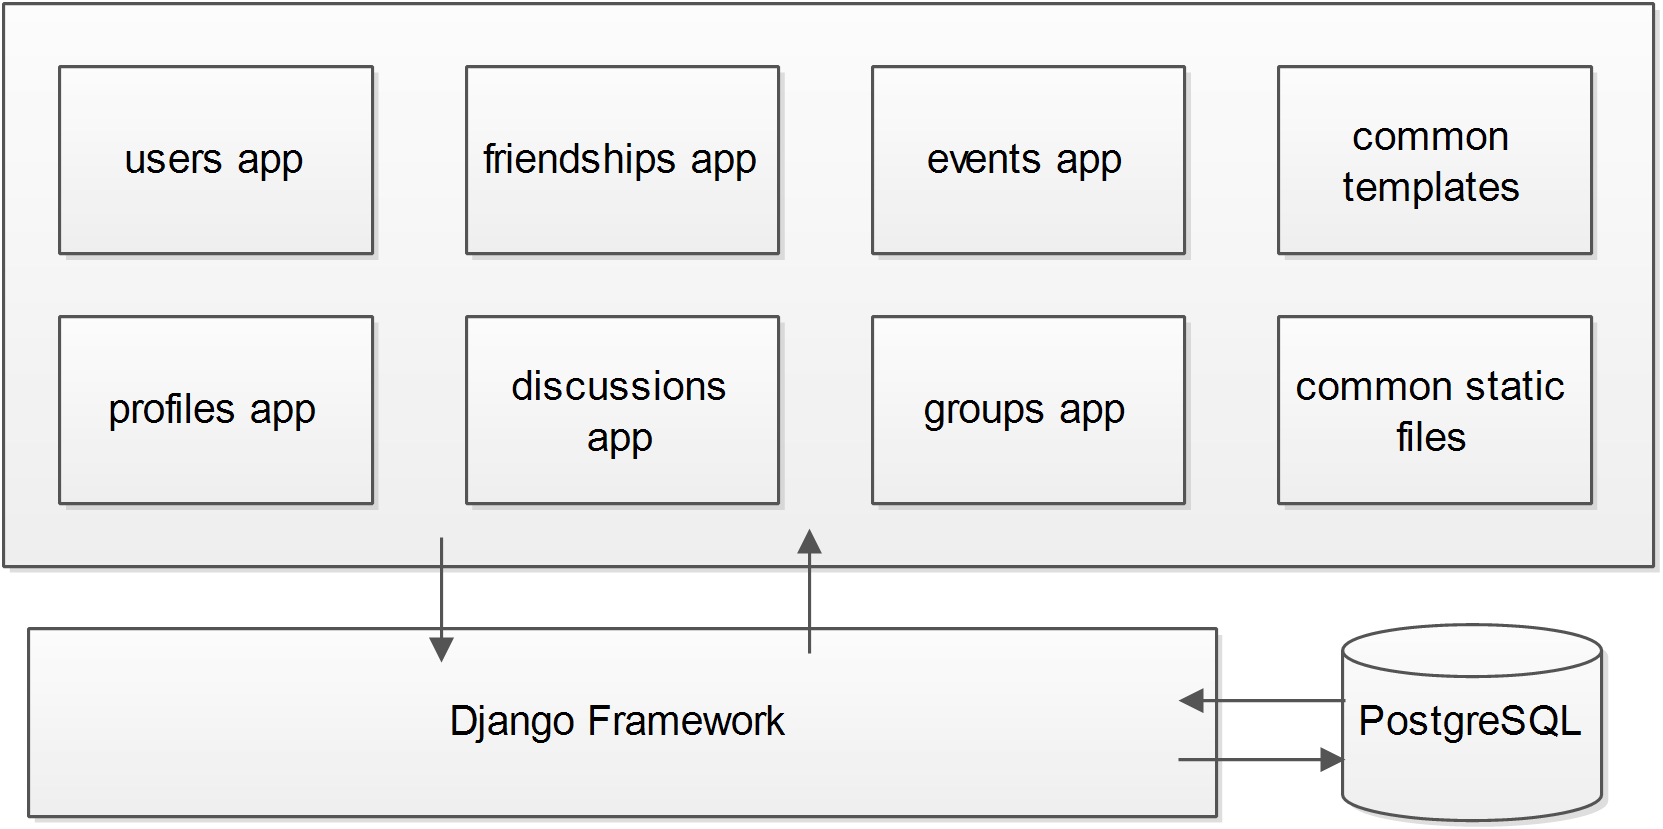
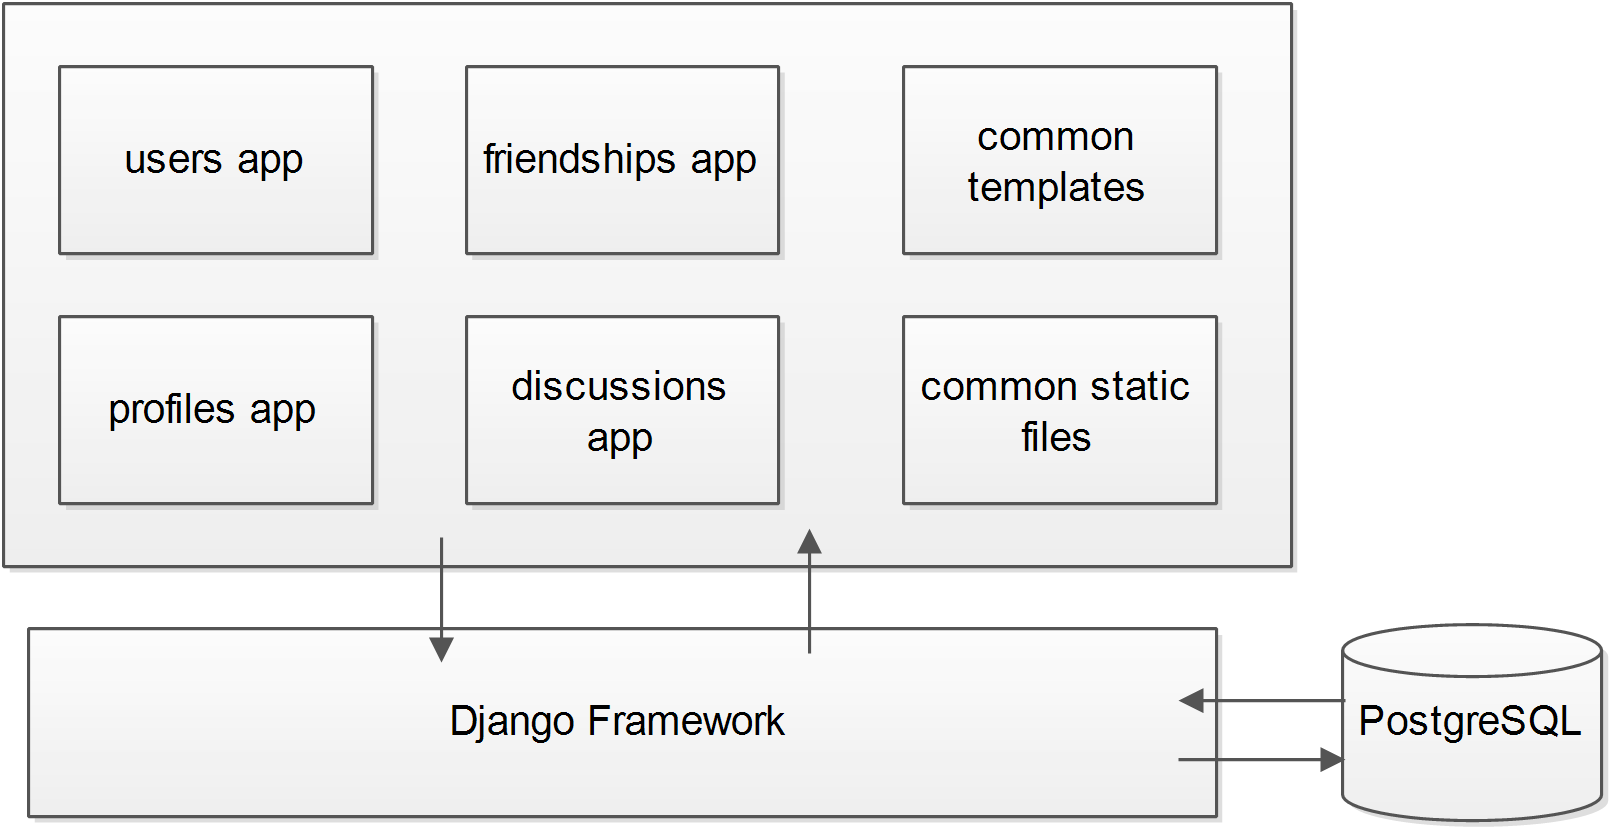
1.Update README.md.

diff --git a/README.md b/README.md
@@ -30,22 +30,45 @@ Start the documentation with identifying information:
 
 ## Must have features
 
-Tasks | Description of must have features | Time of the deadline<br>(DD.MM.YYYY [HH:MM]） 
------------- | ------------- | ------------
-Set up development environment |1. Create virtual environment for the project.<br>2. Deploy demo site to Heroku.<br>3. Use GitLab’s issue board for creating tasks  | 31.10.2018
-Design | 1. Design of users app.<br>2. Design of users’ profile app.<br>3. Design of friendship app.<br>4. Design of discussion app.<br>5. Design of event app.<br>6. Reorganize the tasks on the GitLab’s issue board.  | 3.11.2018 23:59
-implement | 1. Description of the web service data and functionality(Create models including user,users’ profile,friendship,discussions and events.)<br>2. During the web development, we would be aware of project’s progress.<br>3. The gitlab commits should be small and precise.<br>4. often update the deployment on the heroku.<br>5. Update the tasks on on the GitLab’s issue board.  | 28.11.2018 23:59
-test | 1. With the validator, validate the Web app codes.<br>2. Deploy our site with DEBUG = False in Django project’s settings.py to Heroku, and test it.  | 07.12.2018 23:59
+Most of the must have features have been implemented. And some advanced improvements will be taken in the near future.
+
+Must Have Features | Implementation Description | Timetable
+------------------ | -------------------------- | ---------
+ 1.Use a virtual environment | 1.Add virtualenv environment settings in this project.<br>2.Add Pillow in “Pipfile” and “requirement.txt” for supporting Django’s ImageField. | 31.10.2018
+ 2.Get the Web development basics right | 1.CSS and HTML checking is underway.<br>2.Code refactoring and commenting is underway. | 28.11.2018
+ 3.Test also with DEBUG=False in Django project’s settings.py | 1.Deployment on Heroku is working with DEBUG=False. | 21.11.2018
+ 4.User App Functionality | 1.Admin user model is implemented using Django’s Admin functionality.<br>2.Admin user has full CRUD permissions to manipulate all of the website data. <br>3.Normal user model is implemented based on Django’s User model. <br>4.Normal user can join the site, and existing users can delete their accounts. <br>5.Existing user can login and logout site. <br>6.Existing user can enter, modify and delete their mandatory information, including first name, last name, phone number, address. We use first name and last name as users’ real name. And they also can modify their additional information, including age, gender, date of birth, and photo. | 28.11.2018
+ 5.Profile App Functionality | 1.Each user has their own profile page, presenting their basic information, post list, friend list and discussion list. <br>2.The privacy settings include “just me”, “friends”, “public”. User can modify their privacy settings for different data: real name, email, phone, address, friend list. <br>3.User can edit and save all of their own data using their profile edit page. | 28.11.2018
+ 6.Friendship App Functionality | 1.Admin friendship model is implemented using Django's Admin functionality. <br>2.Admin user has full CRUD permissions to manipulate all of the website data. <br>3.Existing friendship model is implemented based on relationship between sender and recipient.4.Existing users can search all users and view every user's basic profile. <br>5.Existing users can send friendship request to corresponding users from profile page. Besides, They can check their sent friendship request and delete it, they can check received friendship request from others and choose to accept or decline it. <br>6.Existing users can view their friendship list once friendship request is accepted, or they can view notification list which shows declined information | 28.11.2018
+ 7.Discussions App Functionality | 1.Admin Discussion and ChatMessage models are implemented using Django's Admin functionality. <br>2.Admin user has full CRUD permissions to manipulate all of the website data. <br>3.Existing Discussion model is implemented to build a channel for communication between the creator and users. <br>4.Existing ChatMessage model is implemented to convey information among discussion members. It involves the features, such as user, headline (presenting time) and message content. <br>5.Existing user can view his or her discussion list and create a new discussion as a creator with related topic and selected users. Besides enrolling the discussions, they also have the right to leave. <br>6.Existing user can send chat messages to others in the enrolled discussion. The presentation of messages would be updated every five seconds. In the situation, he or she would like to hide the message, both the message sender and the discussion creator could delete it. | 28.11.2018
+ 8.Use GitLab’s Issue Board for handling tasks | 1.Add project tags: design, development, feature, testing, production.<br>2.Publish project tasks on the GitLab’s Issue Board. <br>3.Assign tasks to group members. <br>4.Monitor the progress of the project and each tasks. | 28.11.2018
+ 9.GitLab commits | 1.Important GitLab commits have small and precise commit messages.<br>2.Some small part of commits are not well described. | 28.11.2018
+ 10.Be aware of your project’s progress | 1.The must have features are almost implemented at this point.<br>2.Four one star features have been implemented completely. <br>3.Two two star features have been implemented and maybe improved in this week. <br>4.Some other features will been considered in the future. | 28.11.2018
+ 11.Deploy your site to Heroku, and update the deployment often | 1.Successfully deploying our site to Heroku with DEBUG=False.<br>2.Updating is done twice a week. | 28.11.2018
 
 
 ## Planned +2 features
 
-Tasks | Description of must have features | Time of the deadline<br>(DD.MM.YYYY [HH:MM] )
------------- | ------------- | ------------
-Design | 1. Finnish the high quality of the initial project plan document.  | 3.11.2018 23:59
-Implement | 1. mid-project check-in shows faster than expected progress<br>2. Make users, events and discussions searchable<br>3. Email validation on sign-up.<br>4. Reset forgotten password.<br>5. Use separate Django apps for different parts of your project.<br>6. Using Bootstrap for mobile friendliness.<br>7. Use PostgreSQL as database.<br>8. Create the group  | 28.11.2018 23:59
-Testing | Unit Testing using Django Test | 07.12.2018 23:59
+The features that we have implemented and will implement are listed below.
 
+### One star features
+
+Features | Status | Timetable
+-------- | ------ | ---------
+1. Exceptional quality of the initial project plan document | Complete | 07.11.2018
+2. Mid-project check-in shows faster than expected progress | Underway | 21.11.2018
+3. Make users and discussions searchable | Underway | 28.11.2018
+4. Email validation on sign-up | Complete | 15.11.2018
+5. Reset forgotten password | Complete | 12.11.2018
+6. Use separate Django apps for different parts of your project | Complete | 04.11.2018
+7. Status messages on the users’ profile pages | Underway | 28.11.2018
+
+### Two star features
+
+Features | Status | Timetable
+-------- | ------ | ---------
+1. Using Bootstrap for mobile friendliness | Underway | 28.11.2018
+2. Use PostgreSQL as database | Complete | 03.11.2018
 
 
 ## Pages and navigation
@@ -74,7 +97,7 @@ Users in the site administrator user group have full CRUD permissions on all res
 
 Profile:
 User’s profile has both public and private data. Private data is only shown to other logged in users that are friends of this user. The data on the profile page could be edited and saved.
-The profile mainly includes the status message, friend list, discussion list, event list and group list.
+The profile mainly includes the status message, friend list, and discussion list.
 In the status message, user could update, and to which user’s friends can comment on.
 
 
@@ -89,36 +112,33 @@ Discussion:
 Discussion model contains two aspects: discussion details and the comment issue. In discussion details, the discussion list would exit. The comment addresses the username, date and time and the main content.
 
 
-
-Event:
-The event model describes the events and event invitation. The event involves the creator’s name, the description, event category, duration for the vent and the place where the event take  place. And the event invitation is for users to invite the other users to join the events.
-
-
-
-Groups:
-The group has the two aspects: the basic information and discussion. In the basic information, the name and description would be stated in this side. The users who focus on the same subject or could meet place for a group of friends could be divided into the same group.
-
-
 ### URIs
 
-URL | Template 
+URI | Description 
 ------------ | ------------- 
-/ | users/login.html
-users/{user_id}/password_change | users/password_change.html
-users/{user_id}/password_reset | users/password_reset.html 
-users/signup | users/signup.html
-users/{user_id}/detail | users/user_detail.html
-profiles/{user_id}/home | profiles/profile_home.html 
-friendships/{user_id}/home | friendships/friendship_home.html
-friendships/{user_id}/request | friendships/friendship_request.html
-discussions/{user_id}/home | discussions/discussion_home.html 
-discussions/{discussion_id}/detail | discussions/discussion_detail.html
-events/{user_id}/home | events/event_home.html
-events/{event_id}/detail | events/event_detail.html 
-events/{user_id}/invitation | events/event_invitation.html
-groups/{user_id}/home | groups/group_home.html
-groups/{group_id}/detail | groups/group_detail.html 
-
+/ | Default URI when user navigate the web site.
+/admin | URIs wrt Django's Admin panels.
+/users/login/ | URI for User Login.
+/users/logout/ | URI for User Logout.
+/users/password_reset/ | URI for User Password Reset.
+/users/signup/ | URI for User Sign Up View.
+/users/signup/done | URI for Sign Up Done View.
+/users/signup/<uidb64>/<token>/ | URI for Sign Up Confirm View.
+/users/{user_id}/profile/ | URI for User Profile View.
+/users/{user_id}/settings/ | URI for Privacy Settings View.
+/users/{user_id}/delete/ | URI for User Account Delete View.
+/users/delete/done/ | URI for User Account Delete Done View.
+/profiles/ | URI for User's own Profile Home View.
+/profiles/{user_id}/home/ | URI for Visiting User's Profile Home View.
+/profiles/post/create/ | URI for Post Create View.
+/profiles/post/{user_id}/list/{page_no}/ | URI for Post List View.
+/discussions/{user_id}/home | URI for Discussions List View.
+/discussions/{discussion_id}/detail | URI for Discussion Detail View.
+/discussions/create/ | URI for Discussion Create View.
+/discussions/{discussion_id}/{user_id}/leave | URI for User Leave Discussion View.
+/friendships/{user_id}/home/ | URI for User Friendship View.
+/friendships/{user_id}/request/ | URI for Friendship Request View.
+/friendships/{user_id}/{recipient_id}/profile/ | URI for Friendship Request Manipulation View.
 
 
 ### Needed Django views and templates
@@ -126,59 +146,78 @@ groups/{group_id}/detail | groups/group_detail.html
 #### Views
 View | Parameters | Rendered Template
 ------------ | ------------- | ------------
-LoginView | -  | users/login.html
-PasswordChangeView | user_id  | users/password_change.html
-PasswordResetView | user_id  | users/password_reset.html
-SignUpView | -  | users/signup.html
-UserDetailView | user_id  | users/user_detail.html
-ProfileHomeView | user_id  | profiles/profile_home.html
-FriendshipHomeView | user_id  | friendships/friendship_home.html
-FriendshipRequestView | user_id  | friendships/friendship_request.html
-DiscussionHomeView | user_id  | discussions/discussion_home.html
-DiscussionDetailView | discussion_id  | discussions/discussion_detail.html
-EventHomeView | user_id  | events/event_home.html
-EventDetailView | event_id  | events/event_detail.html
-EventInvitationView | user_id  | events/event_invitation.html
-GroupHomeView | user_id  | groups/group_home.html
-GroupDetailView | group_id  | groups/group_detail.html
+profiles.MyHomeView | - | profiles/profile_home.html
+users.CustomPasswordResetView | - | users/password_change_form.html
+users.SignUpView | - | users/signup.html
+users.SignUpDoneView | - | users/signup_done.html
+users.SignUpConfirmView | uidb64, token | users/signup_confirm.html
+users.UserProfileView | user_id | users/user_profile.html
+users.PrivacySettingsView | user_id | users/user_privacy_settings.html
+users.CustomUserDeleteView | user_id | users/user_confirm_delete.html
+users.CustomUserDeleteDoneView | - | users/user_delete_done.html
+users.VisitingHomeView | user_id | profiles/profile_home.html
+profiles.PostCreateView | - | profiles/post/post_create_form.html
+profiles.PostListView | user_id, page_no | profiles/post/post_list.html
+discussions.home | user_id | discussions/discussion_home.html
+discussions.detail | discussion_id | discussions/discussion_detail.html
+discussions.CreateDiscussionView | - | discussions/discussion_create.html
+discussions.leave | discussion_id, user_id | discussions/discussion_home.html
+friendships.home | user_id | friendships/friendship_home.html
+friendships.request | user_id | friendships/friendship_request.html
+friendships.profile | user_id, recipient_id | friendships/friendship_profile.html
 
 
 
 #### Templates
 Template | Description 
 ------------ | ------------- 
-users/login.html | 1. Actions: login.<br>2. Forms: LoginForm. 
-users/password_change.html | 1. Actions: change.<br>2. Forms: PasswordChangeForm.
-users/password_reset.html | 1. Actions: reset.<br>2. Forms: PasswordResetForm.  
-users/signup.html | 1. Actions: signup.<br>2. Forms: SignUpForm. 
-users/user_detail.html | 1. Actions: update.<br>2. Forms: UserDetailForm.  
-profiles/profile_home.html | 1. Actions: edit, delete.<br>2. Forms: UserDetailForm.<br>3. Lists: discussions, friendships, events, groups.
-friendships/friendship_home.html | 1. Actions: delete.  
-friendships/friendship_request.html | 1. Actions: delete, accept, decline, ignore. 
-discussions/discussion_home.html | -  
-discussions/discussion_detail.html | 1. Actions: leave, send message.<br>2. Forms: ChatMessageForm. 
-events/event_home.html | - 
-events/event_detail.html | 1. Actions: send invitation.<br>2. Forms: EventInvitationForm.
-events/event_invitation.html | 1.Actions: delete, accept, decline, ignore.  
-groups/group_home.html | -
-groups/group_detail.html | 1.Actions: leave. 
+users/templates/registration/login.html | 1. Actions: login.<br>2. Forms: username and password input form. 
+users/templates/registration/password_change_done.html | show information that users have changed their password successfully.
+users/templates/registration/password_change_form.html | 1. Actions: change password.<br>2. Forms: old and new password input form.
+users/templates/registration/password_reset_complete.html | 1. Actions: reset password.<br>2. Forms: username and email address input form.
+users/templates/registration/password_reset_confirm.html | show information that users can reset their password with further instructions.
+users/templates/registration/password_reset_done.html | show information that users have reset their password successfully.
+users/templates/registration/password_reset_form.html | 1. Actions: reset password.<br>2. Forms: new password input form.
+users/templates/users/signup.html | 1. Actions: sign up.<br>2. Forms: user sign up form.
+users/templates/users/signup_confirm.html | show further information for users to complete their signup.
+users/templates/users/signup_done.html | show information that users have activated their account.
+users/templates/users/signup_email_template.html | sign-up email validation form.
+users/templates/users/user_base.html | basic template page for Users App.
+users/templates/users/user_confirm_delete.html | 1. Actions: delete user account.
+users/templates/users/user_delete_done.html | show successful information that users have deleted their account.
+users/templates/users/user_privacy_settings.html | 1. Actions: change privacy settings.<br>2. Forms: privacy setting form.
+users/templates/users/user_profile.html | 1. Actions: modify user profile information.<br>2. Forms: profile information form.
+profiles/templates/profiles/profile_base.html | basic template page for Profiles App.
+profiles/templates/profiles/profile_home.html | show users profile information and post, friend, dicussion list.
+profiles/templates/profiles/post/post_create_form.html | post message form.
+profiles/templates/profiles/post/post_list.html | post message list.
+friendships/templates/friendships/friendship_home.html | show users' friend list.
+friendships/templates/friendships/friendship_request.html | show friendship request list.
+discussions/templates/discussions/discussion_home.html | show users' discussion list.
+discussions/templates/discussions/discussion_detail.html | 1. Actions: show discussion detail, send and delete messages.<br>2. Forms: MessageForm.
+discussions/templates/discussions/discussion_create.html | discussion creation form.
 
 
 ### Heroku deployment
 
 https://sheltered-badlands-86452.herokuapp.com/
 
+Testing Account | type | password
+--------------- | ---- | --------
+TestUser1 | normal user | test4sns
+TestUser2 | normal user | test4sns
+AdminUser1 | admin | test4sns
+
 Heroku deployment plan:
-- Everyone in our group
+- Huang Xie 281685
 - Twice a week
 
 
 ## Testing
-1. Unit Testing: unit testing tasks will carry out during the development cycle.
-2. Integration Testing: after each app was implemented, phased integration testing would be conducted.
-3. Deployment Testing: after integration testing, there would be a phased deployment testing.
+1. Unit Testing: unit testing tasks are carried out for Users App, Profiles App, Discussions App and Friendship App.
+2. Integration Testing: First phase for integration testing is underway.
+3. Deployment Testing: First phase deployment testing is underway.
 
-The testing tasks will be carried out by each member of our group corresponding to different app in this project.
 
 
 ## Project timetable and division of work
@@ -218,14 +257,7 @@ No. | Task Name | Features | Developer | Start | End
 -| -- Functional Implementation|Mandatory| |2018/11/04|2018/11/28
 -| -- Discussions Searchable|+1| |2018/11/04|2018/11/28
 -| -- Unit Testing using Django Test|+3| |2018/11/04|2018/11/28
--|Events App| |Liang Fang|2018/11/04|2018/11/28
--| -- Functional Implementation|Mandatory| |2018/11/04|2018/11/28
--| -- Events Searchable|+1| |2018/11/04|2018/11/28
--| -- Unit Testing using Django Test|+3| |2018/11/04|2018/11/28
--|Groups App| |Liang Fang|2018/11/04|2018/11/28
--| -- Functional Implementation|Mandatory| |2018/11/04|2018/11/28
--| -- Unit Testing using Django Test|+3| |2018/11/04|2018/11/28
-8|Mid-Project Check-in| |Huang Xie, Yan Feng, Liang Fang|2018/11/21|2018/11/21
+8|Mid-Project Check-in|+1|Huang Xie, Yan Feng, Liang Fang|2018/11/21|2018/11/21
 9|Integration Testing| |Huang Xie, Yan Feng, Liang Fang|2018/11/29|2018/12/04
 10|Deployment Testing| |Huang Xie, Yan Feng, Liang Fang|2018/12/05|2018/12/08
 11|Final Project Documents| |Huang Xie, Yan Feng, Liang Fang|2018/12/05|2018/12/08
